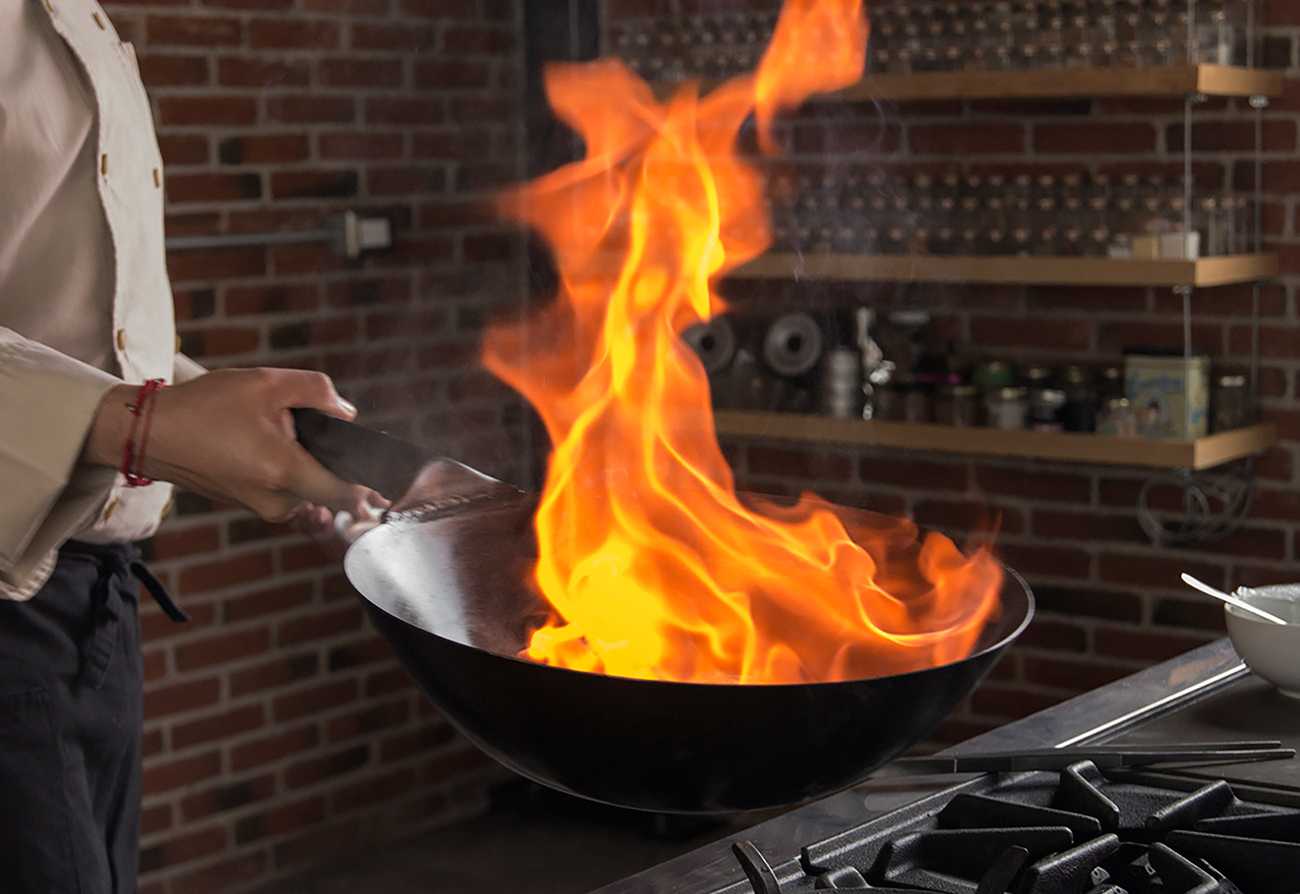
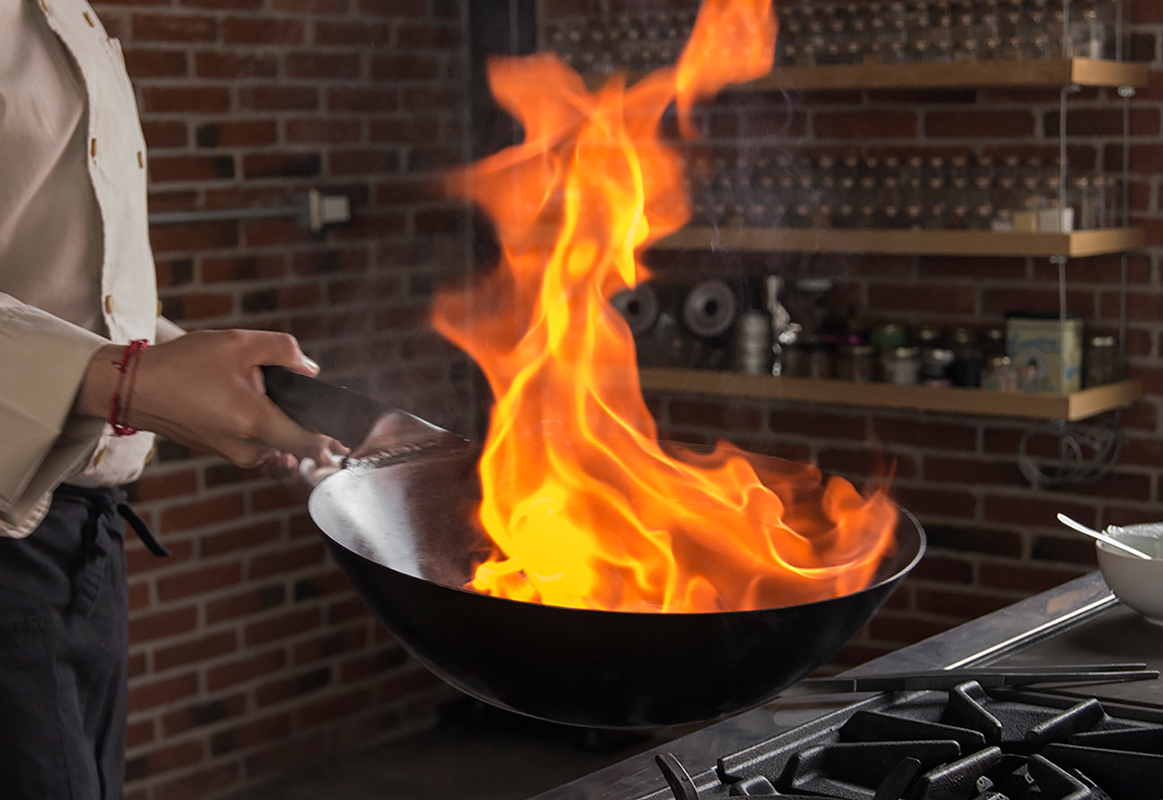
removing parallax

diff --git a/index.html b/index.html
@@ -78,29 +78,27 @@
 			</div>	
 		</div>
 		<div class="parallax_group"  id="slide_2"> 
-			<div class="parallax_layer parallax_layer_back" id="slide_2_back">
+			<div class="parallax_layer_back" id="slide_2_back">
 				<div class="parallax_group" id="slide_2_container">
 					<div class="" id="slide_2_front">
 						<div class="carousel_container">					
 							<!-- Slider Starts -->
 							<div id="myCarousel" class="carousel slide banner-slider animated bounceInDown" data-ride="carousel">     
-							      	<div class="carousel-inner clas">
+							      	<div class="carousel-inner">
 								        <!-- Item 1 -->
 								        <div class="item active">
 								          <img src="images/menuboard1-01.png">
 								        </div>
 								        <!-- #Item 1 -->
-
 								        <!-- Item 1 -->
-								        <!--
 								        <div class="item">
 								          <img src="images/menuboard2.png">
-								        </div>-->
+								        </div>
 								        <!-- #Item 1 -->
 								        <!-- Item 1 -->
-								        <!--<div class="item">
+								        <div class="item">
 								          <img src="images/menuboard3-04.png">
-								        </div>-->
+								        </div>
 								        <!-- #Item 1 -->
 							      	</div>
 							      	<a class="left carousel-control" href="#myCarousel" data-slide="prev"><span class="left_arrow_container"><img src="images/flecha_izq.png" alt=""></span></a>
@@ -110,11 +108,29 @@
 						</div>			
 					</div>
 				</div>	
-			</div>								
-		</div>	
-		
+			</div>
+			<div class="parallax_group col-sm-12 col-md-12" id="slide_3">
+				<div class="carousel_container">
+					<!-- Slider Starts -->
+					<div id="myCarousel_2" class="carousel slide banner-slider animated bounceInDown" data-ride="carousel">     
+					      	<div class="carousel-inner">
+						        <!-- Item 1 -->
+						        <div class="item active">
+						          <img src="images/gallery/open.png" class="carousel_background">
+						          <!--<img src="images/gallery/open.png">-->
+						        </div>
+						        <!-- #Item 1 -->
 
+					      	</div>
+					      	<a class="left carousel-control" href="#myCarousel_2" data-slide="prev"><span class="left_arrow_container_2"><img src="images/flecha_izq.png" alt=""></span></a>
+					      	<a class="right carousel-control" href="#myCarousel_2" data-slide="next"><div class="right_arrow_container_2"><img src="images/flecha_der.png" alt=""></div></a>
+					</div>
+					<!-- #Slider Ends -->
+				</div>				
+			</div>											
+		</div>
 	</div>			
+
 	<script src="js/bootstrap.js"></script>
 	<!--<script src="js/mainController.js" type="text/javascript"></script>-->
 	<!-- gallery -->

diff --git a/css/styles.css b/css/styles.css
@@ -26,6 +26,8 @@ body {
 .parallax_group {
   position: relative;
   height: 100vh;
+  -webkit-transform: preserve-3d;
+  -moz-transform: preserve-3d;
   transform: preserve-3d;
 }
 
@@ -35,7 +37,10 @@ body {
   height: 100vh;
   overflow-x: hidden;
   overflow-y: auto;
-  perspective-origin-x: 100%;
+  /*
+  -webkit-perspective-origin-x: 100%;
+  -moz-perspective-origin-x: 100%;
+  perspective-origin-x: 100%;*/
 }
 
 .parallax_layer {
@@ -45,7 +50,10 @@ body {
   right: 0;
   bottom: 0;
   left: 0;
-  transform-origin-x: 100%;
+  /*
+  -moz-transform-origin-x: 100%;
+  -webkit-transform-origin-x: 100%;
+  transform-origin-x: 100%;*/
 }
 
 .parallax_layer_base {   
@@ -82,8 +90,9 @@ body {
 }
 
 #slide_2_back{
+  position: relative;
   display: table;
-  width: 100%;  
+  width: 100%;    
   background-image: url("../images/pizarra.png");
   background-repeat: repeat-y;
   background-size: cover;
@@ -97,20 +106,21 @@ body {
 }
 
 #slide_2_container{
-  display: table-row;
+  display: table-row;  
 }
 
 
 #slide_2_front{  
   margin-top: 25%;
   margin-bottom: 350px;
+  min-height: 1523px !important;
 }
 
 
 #slide_3{  
-  display: block;
-  margin-top: 250px;
-  top: 400%;
+  display: table;
+  margin-top: 40%;
+  z-index: -1;
 }
 
 
@@ -198,7 +208,6 @@ body {
 .left_arrow_container{
   position: absolute;
   top: 50%;
-  z-index: 116 !important;
   display: inline-block;
   margin-left: -140px;
 }
@@ -206,7 +215,26 @@ body {
 .right_arrow_container{
   position: absolute;
   top: 50%;
-  z-index: 111116 !important;
   display: inline-block;
   margin-right: -140px;
+}
+
+.carousel_background{
+  width: 1500px !important;
+  top: 200px;
+}
+
+
+.left_arrow_container_2{
+  position: absolute;
+  top: 50%;
+  display: inline-block;
+  margin-left: -60px;
+}
+
+.right_arrow_container_2{
+  position: absolute;
+  top: 50%;
+  display: inline-block;
+  margin-left: -60px;
 }
